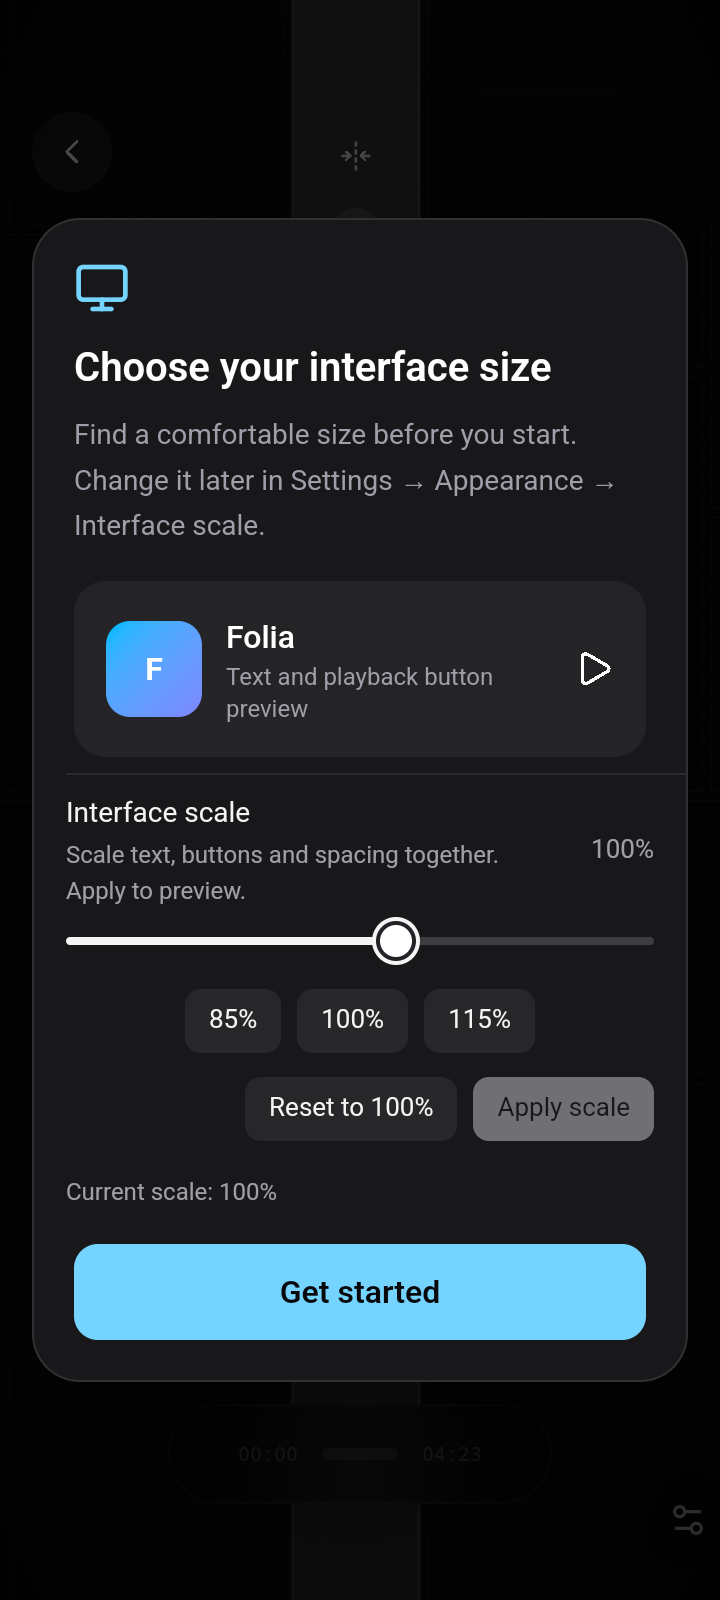
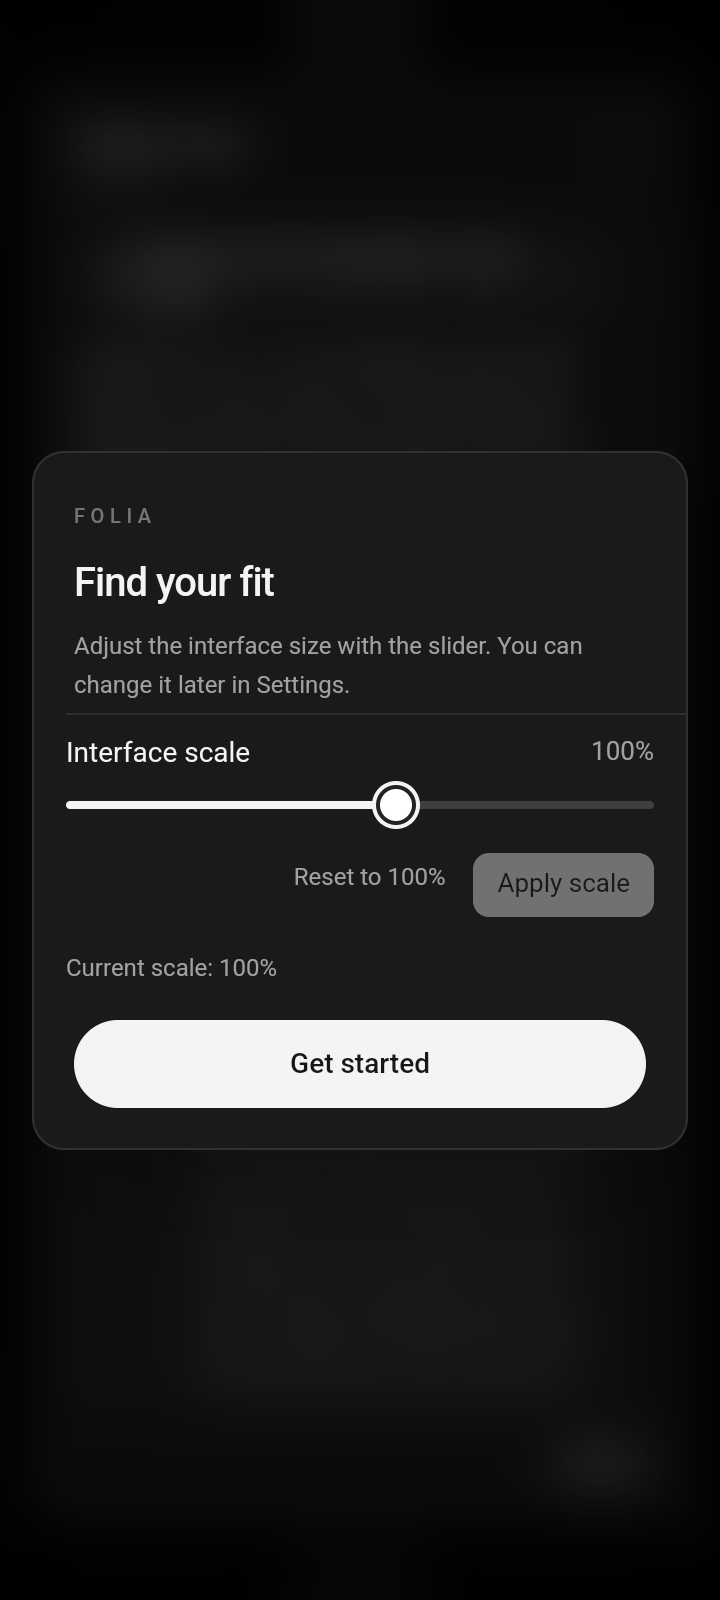
fix(android): match startup scale setup to Folia styling and use fork update source

diff --git a/src/components/app/display-scale/AndroidDisplaySetup.tsx b/src/components/app/display-scale/AndroidDisplaySetup.tsx
@@ -1,16 +1,16 @@
 import React, { useEffect, useRef } from 'react';
 import { useTranslation } from 'react-i18next';
-import { Monitor, Play } from 'lucide-react';
 import { isAndroidMusicRuntime } from '../../../services/androidMusicRuntime';
 import { useDisplayScaleStore } from '../../../stores/useDisplayScaleStore';
 import { DisplayScaleControl } from './DisplayScaleControl';
+import { useThemeSettingsStore } from '../../../stores/useThemeSettingsStore';
 import { settingsTokens } from '../../modal/settings/kit/kitTheme';
 import './androidDisplaySetup.css';
 
 // The first Android entry offers sizing before the user continues to the normal app and tutorial.
 export default function AndroidDisplaySetup() {
     const { t } = useTranslation();
-    const scale = useDisplayScaleStore(state => state.displayScale);
+    const daylight = useThemeSettingsStore(state => state.isDaylight);
     const complete = useDisplayScaleStore(state => state.setupComplete);
     const finish = useDisplayScaleStore(state => state.completeSetup);
     const dialog = useRef<HTMLDialogElement>(null);
@@ -23,18 +23,13 @@ export default function AndroidDisplaySetup() {
     }, [visible]);
     if (!visible) return null;
     return <dialog ref={dialog} data-display-scale-setup aria-labelledby="display-scale-heading" onCancel={event => event.preventDefault()}
-        className="st-window android-display-setup rounded-3xl border border-white/10 bg-zinc-900 p-0 text-white shadow-2xl"
-        style={{ ...settingsTokens(false), '--text-primary': '#f4f4f5' } as React.CSSProperties}>
-        <div className="p-5 pb-2">
-            <Monitor className="mb-3 h-7 w-7 text-sky-300" aria-hidden />
-            <h1 id="display-scale-heading" className="text-xl font-semibold">{t('displayScale.welcome')}</h1>
-            <p className="mt-2 text-sm leading-relaxed text-zinc-400">{t('displayScale.intro')}</p>
-            <div className="mt-4 flex items-center gap-3 rounded-2xl bg-white/5 p-4" aria-hidden="true" style={{ zoom: scale / 100 }}>
-                <div className="flex h-12 w-12 shrink-0 items-center justify-center rounded-xl bg-gradient-to-br from-sky-400 to-indigo-400 font-bold">F</div>
-                <div className="min-w-0 flex-1"><p className="truncate font-medium">Folia</p><p className="text-xs text-zinc-400">{t('displayScale.sample')}</p></div>
-                <Play className="h-5 w-5 shrink-0" />
-            </div>
-        </div>
+        className="st-window android-display-setup rounded-2xl border border-white/10 bg-[var(--st-win)] p-0 text-[color:var(--st-t1)] shadow-2xl"
+        style={{ ...settingsTokens(daylight), '--text-primary': daylight ? '#18181b' : '#f4f4f5' } as React.CSSProperties}>
+        <header className="px-5 pt-6 pb-1">
+            <p className="mb-3 text-[10px] font-medium tracking-[0.28em] text-[color:var(--st-t3)]">FOLIA</p>
+            <h1 id="display-scale-heading" className="text-xl font-medium tracking-tight">{t('displayScale.welcome')}</h1>
+            <p className="mt-2 text-xs leading-relaxed text-[color:var(--st-t2)]">{t('displayScale.intro')}</p>
+        </header>
         <DisplayScaleControl onContinue={finish} />
     </dialog>;
 }

diff --git a/src/components/app/display-scale/DisplayScaleControl.tsx b/src/components/app/display-scale/DisplayScaleControl.tsx
@@ -12,17 +12,17 @@ export const DisplayScaleControl: React.FC<{ option?: SettingsOptionDef; onConti
     const [draft, setDraft] = useState(scale);
     useEffect(() => setDraft(scale), [scale]);
     return <div data-display-scale-control>
-        <Row option={option} label={t('displayScale.title')} hint={t('displayScale.hint')}>
+        <Row option={option} label={t('displayScale.title')} hint={onContinue ? undefined : t('displayScale.hint')}>
             <Slider value={draft} min={DISPLAY_SCALE_MIN} max={DISPLAY_SCALE_MAX} step={5} onChange={setDraft} format={value => value + '%'} stacked />
         </Row>
-        <div className="flex flex-wrap justify-center gap-2 px-4 pb-3">
+        {!onContinue && <div className="flex flex-wrap justify-center gap-2 px-4 pb-3">
             {[85, 100, 115].map(value => <Button key={value} onClick={() => setDraft(value)}>{value}%</Button>)}
-        </div>
+        </div>}
         <div className="flex flex-wrap justify-end gap-2 px-4 pb-4">
-            <Button onClick={() => { setDraft(100); setScale(100); }}>{t('displayScale.reset')}</Button>
+            <Button variant={onContinue ? 'quiet' : undefined} onClick={() => { setDraft(100); setScale(100); }}>{t('displayScale.reset')}</Button>
             <Button variant="primary" disabled={draft === scale} onClick={() => setScale(draft)}>{t('displayScale.apply')}</Button>
         </div>
         <p className="px-4 pb-4 text-xs leading-relaxed text-[color:var(--st-t2)]" aria-live="polite">{t('displayScale.current', { value: scale })}</p>
-        {onContinue && <div className="px-5 pb-5"><button type="button" data-display-scale-continue onClick={() => { setScale(draft); onContinue(); }} className="min-h-11 w-full rounded-xl bg-sky-300 px-4 py-3 font-semibold text-zinc-950">{t('displayScale.continue')}</button></div>}
+        {onContinue && <div className="px-5 pb-5"><button type="button" data-display-scale-continue onClick={() => { setScale(draft); onContinue(); }} className="min-h-11 w-full rounded-full bg-[var(--st-accent)] px-4 py-3 text-sm font-medium text-[color:var(--st-on-accent)]">{t('displayScale.continue')}</button></div>}
     </div>;
 };

diff --git a/src/components/app/display-scale/androidDisplaySetup.css b/src/components/app/display-scale/androidDisplaySetup.css
@@ -1,11 +1,11 @@
 /* Keep the entry controls reachable at every scale, orientation and display cutout. */
 .android-display-setup {
     zoom: var(--folia-display-inverse-scale, 1);
-    width: min(440px, calc((100vw - var(--folia-native-safe-left, 0px) - var(--folia-native-safe-right, 0px)) * var(--folia-display-scale, 1) - 32px));
+    width: min(380px, calc((100vw - var(--folia-native-safe-left, 0px) - var(--folia-native-safe-right, 0px)) * var(--folia-display-scale, 1) - 32px));
     max-width: none;
     max-height: calc((100dvh - var(--folia-native-safe-top, 0px) - var(--folia-native-safe-bottom, 0px)) * var(--folia-display-scale, 1) - 32px);
     margin: auto;
     overflow-y: auto;
     overscroll-behavior: contain;
 }
-.android-display-setup::backdrop { background: rgb(0 0 0 / 72%); }
+.android-display-setup::backdrop { background: rgb(0 0 0 / 56%); backdrop-filter: blur(12px); }

diff --git a/src/components/modal/settings/pages/HelpPage.tsx b/src/components/modal/settings/pages/HelpPage.tsx
@@ -20,8 +20,8 @@ import { iconLabel } from './iconLabel';
 // is not in pages/index.ts and the search does not list it; the settings window mounts it itself
 // and hands it the two dialogs it opens.
 
-const REPOSITORY_URL = 'https://github.com/chthollyphile/folia-major';
-const REPOSITORY_NAME = 'chthollyphile/folia-major';
+const REPOSITORY_URL = 'https://github.com/hejunlin1755/folia-major-pc-for-android';
+const REPOSITORY_NAME = 'hejunlin1755/folia-major-pc-for-android';
 const BUILD_KIND = getBuildKind();
 const VERSION_INFO = (__DOCKER_STACK_VERSION__
     ? `${__APP_VERSION_LABEL__} v${__APP_VERSION__} · Stack ${__DOCKER_STACK_VERSION__} · ${__COMMIT_HASH__}`

diff --git a/src/i18n/locales/zh-CN.ts b/src/i18n/locales/zh-CN.ts
@@ -7,8 +7,8 @@ export default {
     "reset": "恢复 100%",
     "apply": "应用比例",
     "current": "当前比例：{{value}}%",
-    "welcome": "选择适合你的界面大小",
-    "intro": "先调整到舒适的大小，再开始使用。之后可在「设置 → 外观 → 界面缩放」中修改。",
+    "welcome": "调整到舒服的大小",
+    "intro": "拖动滑杆调整界面比例。之后也能在设置中修改。",
     "sample": "文字与播放按钮预览",
     "continue": "开始使用"
 },

diff --git a/src/i18n/locales/en.ts b/src/i18n/locales/en.ts
@@ -7,8 +7,8 @@ export default {
     "reset": "Reset to 100%",
     "apply": "Apply scale",
     "current": "Current scale: {{value}}%",
-    "welcome": "Choose your interface size",
-    "intro": "Find a comfortable size before you start. Change it later in Settings → Appearance → Interface scale.",
+    "welcome": "Find your fit",
+    "intro": "Adjust the interface size with the slider. You can change it later in Settings.",
     "sample": "Text and playback button preview",
     "continue": "Get started"
 },

diff --git a/src/i18n/locales/in.ts b/src/i18n/locales/in.ts
@@ -7,8 +7,8 @@ export default {
     "reset": "Atur ulang 100%",
     "apply": "Terapkan skala",
     "current": "Skala saat ini: {{value}}%",
-    "welcome": "Pilih ukuran antarmuka",
-    "intro": "Atur ukuran yang nyaman sebelum mulai. Ubah lagi di Pengaturan → Tampilan → Skala antarmuka.",
+    "welcome": "Sesuaikan tampilan",
+    "intro": "Atur ukuran antarmuka dengan penggeser. Anda dapat mengubahnya lagi di Pengaturan.",
     "sample": "Pratinjau teks dan tombol pemutaran",
     "continue": "Mulai"
 },
